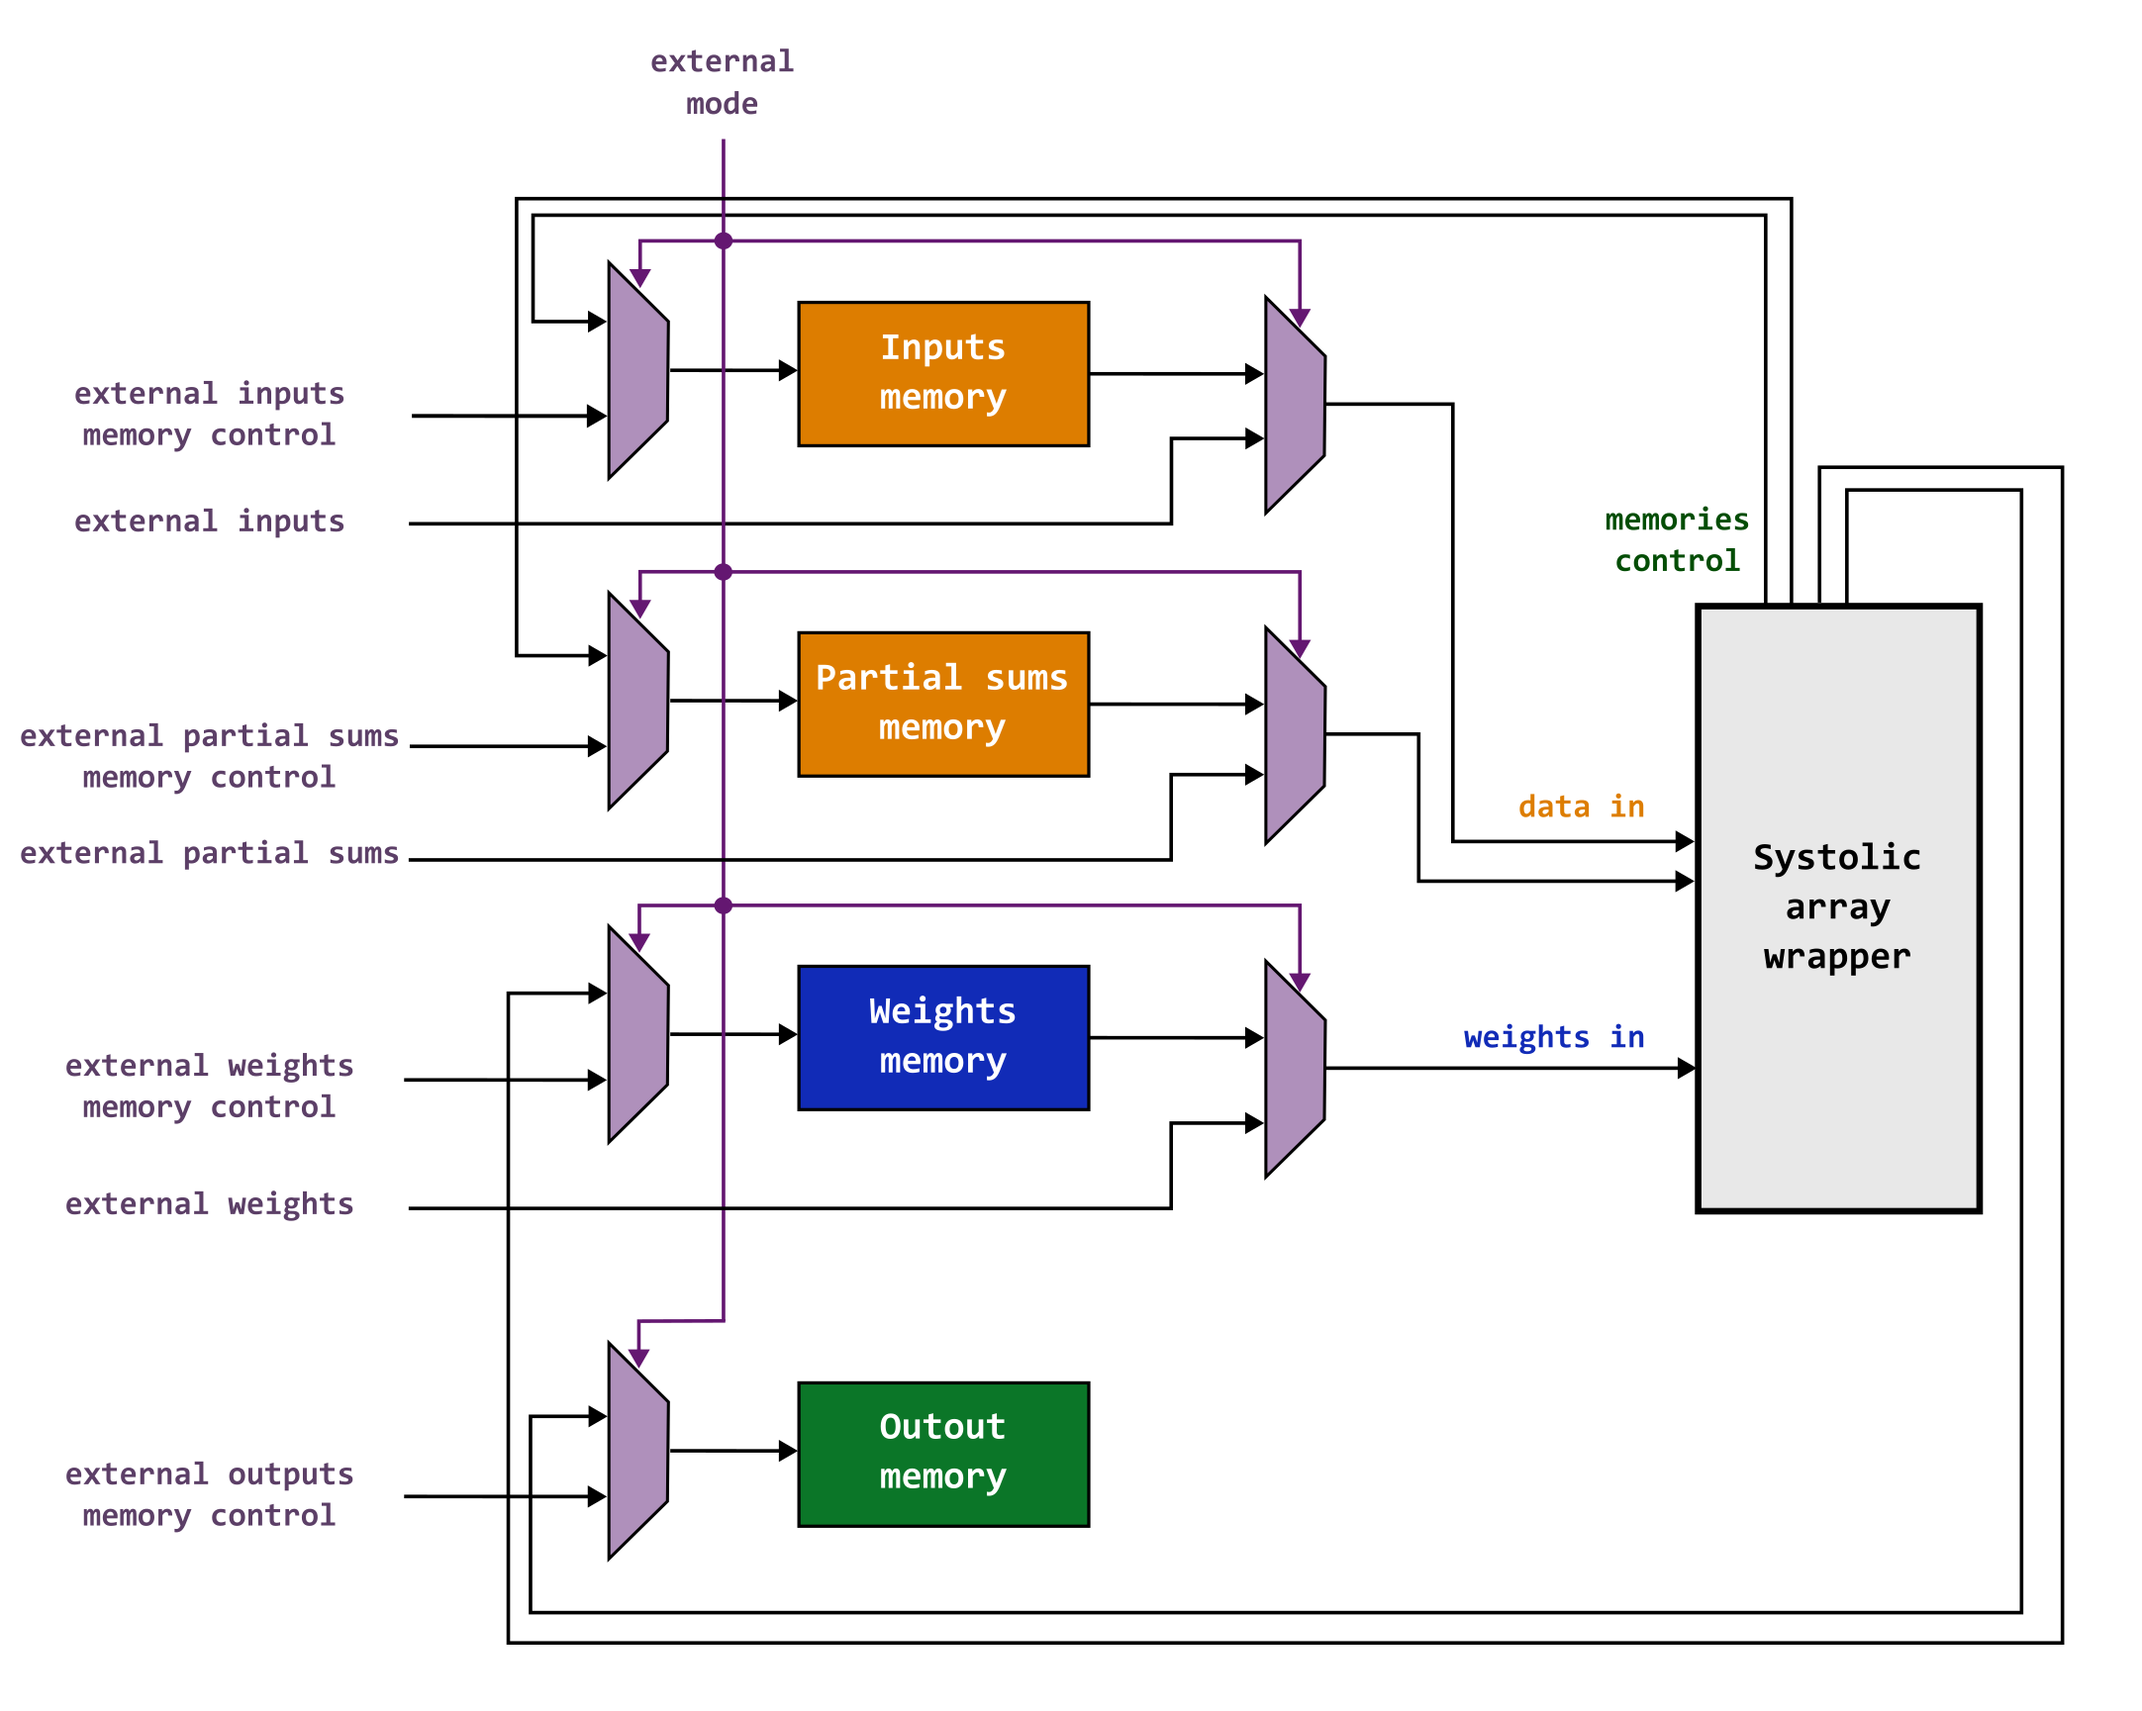
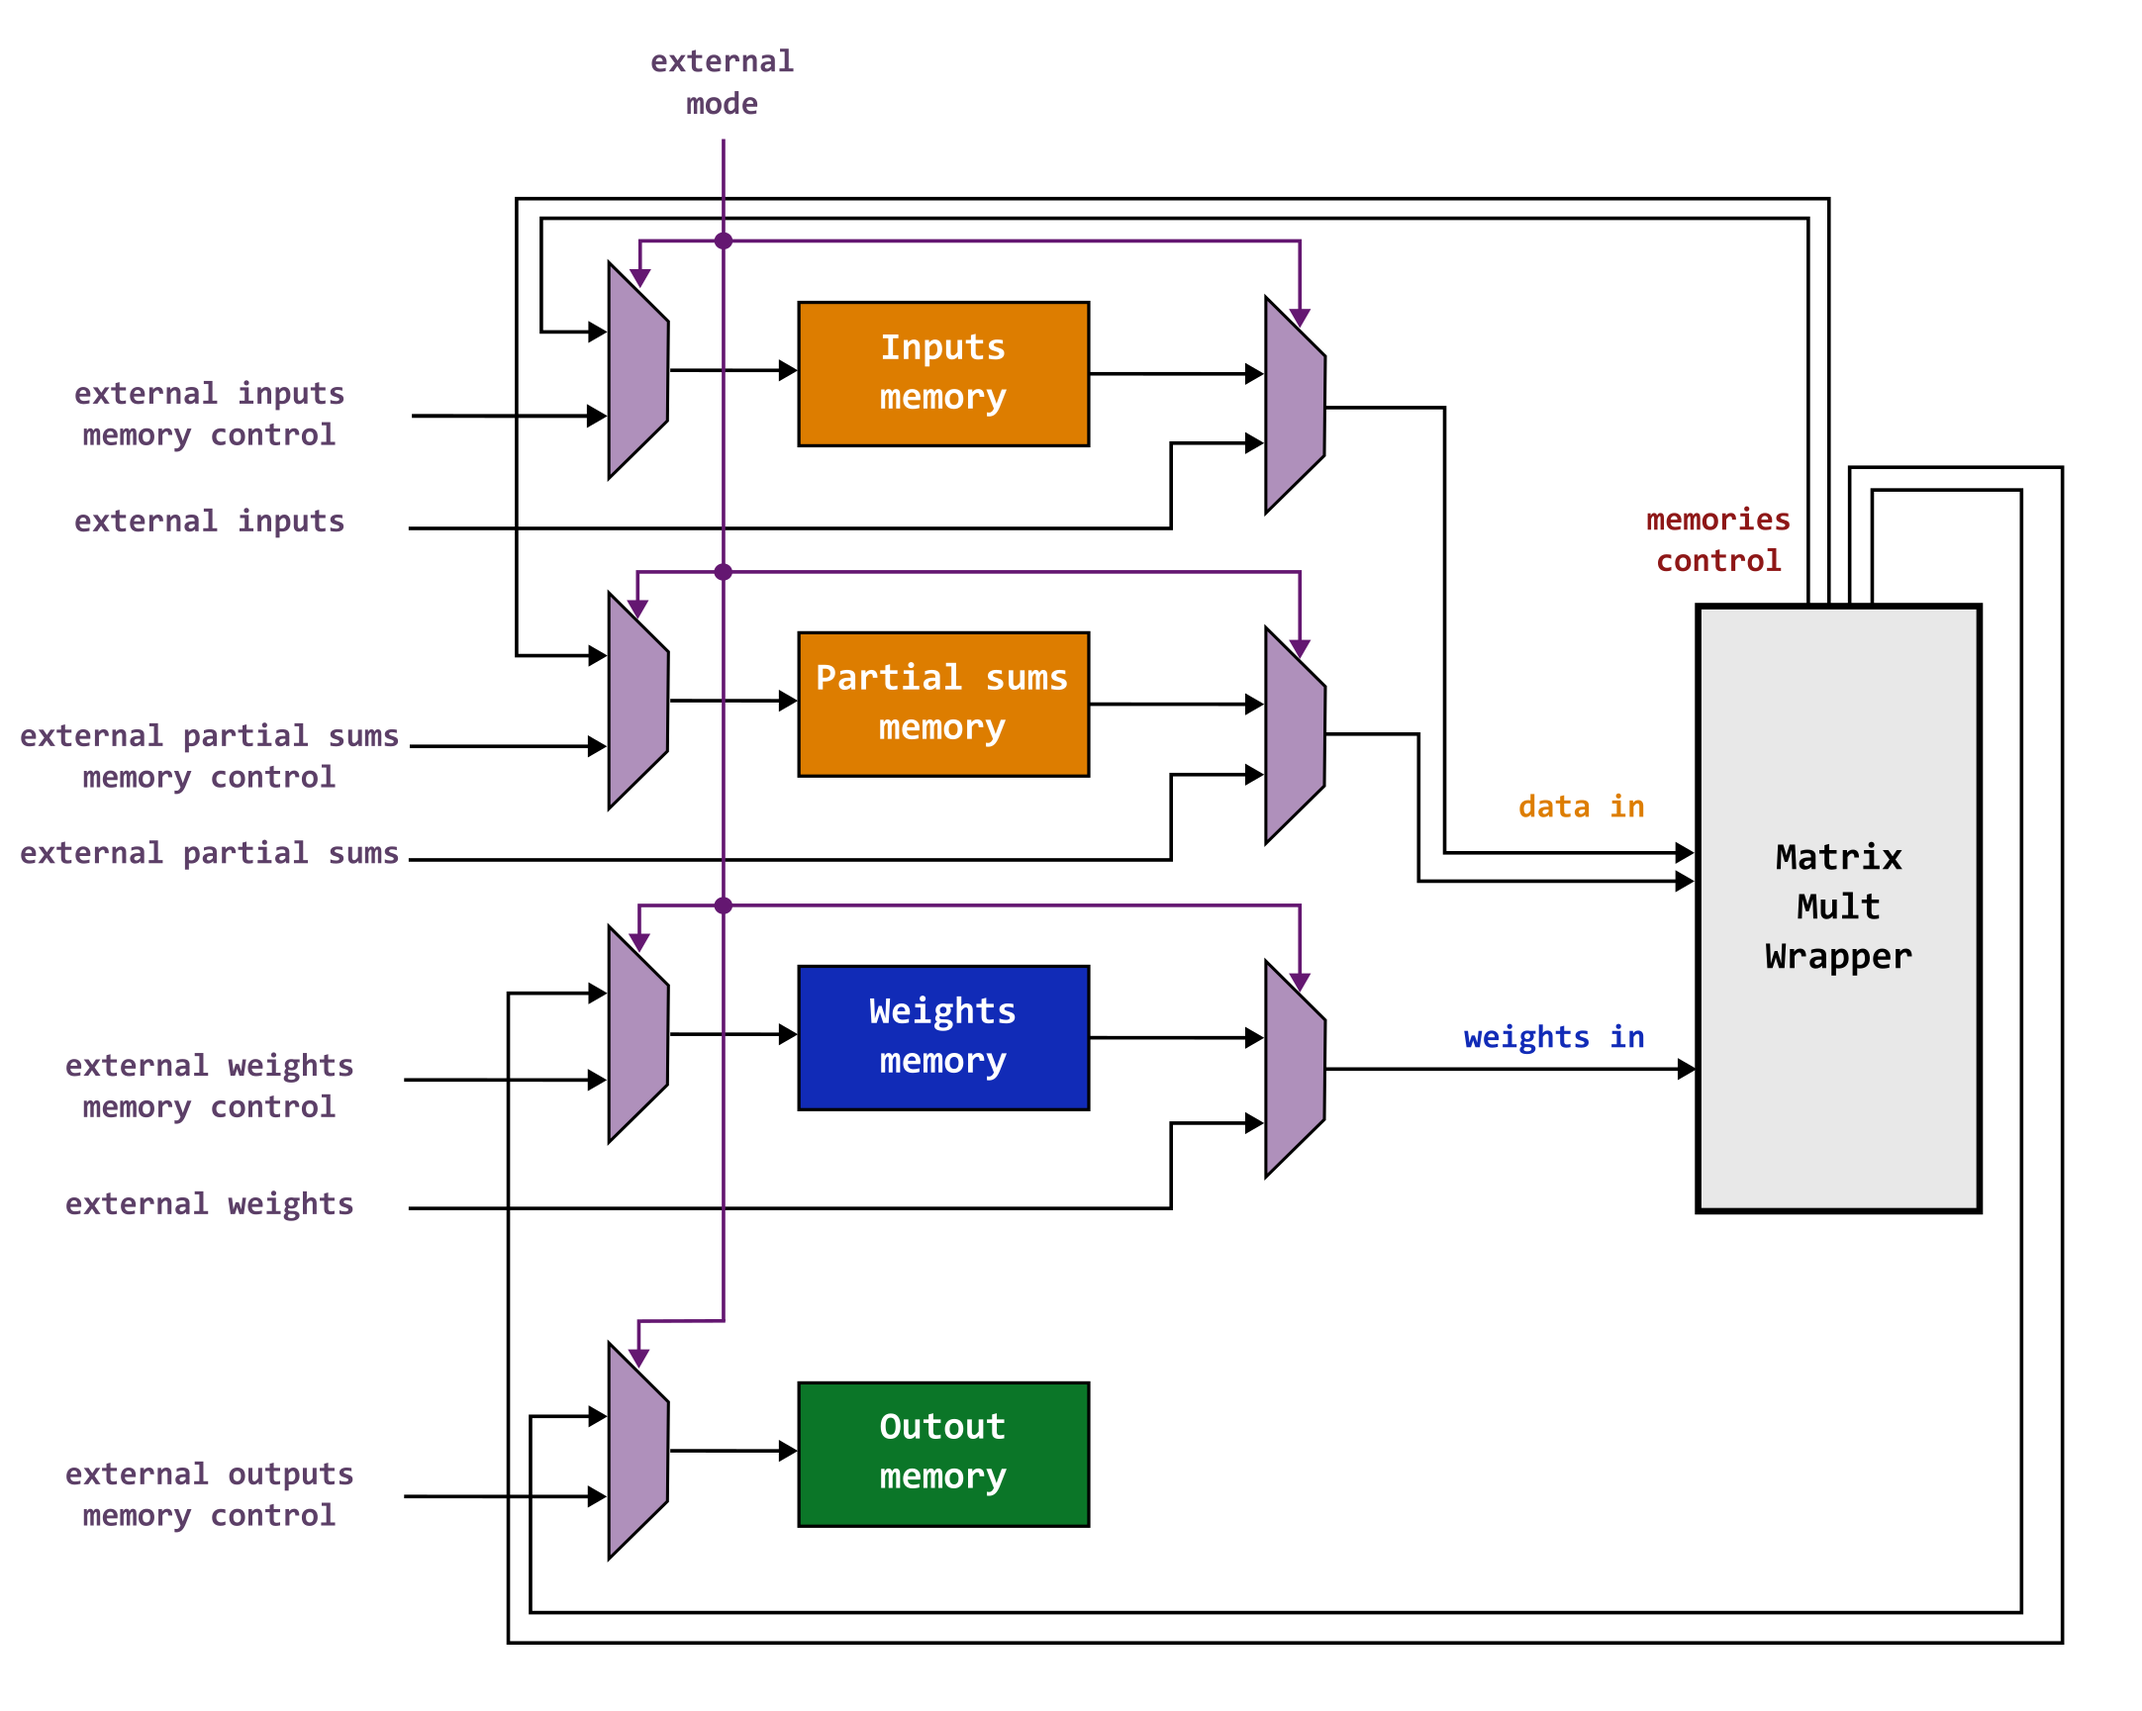
Images updated to matrix mult

diff --git a/README.md b/README.md
@@ -86,7 +86,7 @@ Explore the use of _genvar_ to build a customizable number of stages.
 ## Systolic Array Wrapper
 The Systolic wrapper includes 3 main blocks: a driver, a monitor and the Systolic Array module. In driver mode 1, the driver flops the incoming test pattern, and sends it out to the Systolic module in the next cycle. In driver mode 0, the LFSR inside the driver generates the test patterns and feed it to the Systolic module. In monitor mode 1, the monitor flops the Systolic module's output and pops it out the next cycle to external modules. In monitor mode 0, the signature analyzer inside the monitor collects the Systolic module's ouputs and compresses those until it receives the stop signal. Then, one ouput will be sent out from the monitor.
 
-The data input port is also used to set the seed of LFSR and SA when in driver mode 0 or monitor mode 0. Provide the seed when reset is high to set LFSR and SA seed. Once the reset goes high, LFSR will start to generate pattern automatically. LFSR stops and notifies SA to stop as well when the generated pattern matches the stop pattern on the stop code input port.
+The data input port is also used to set the seed of LFSR and SA when in driver mode 0 or monitor mode 0. Provide the seed when reset is low to set LFSR and SA seed. Once the reset goes high, LFSR will start to generate pattern automatically. LFSR stops and notifies SA to stop as well when the generated pattern matches the stop pattern on the stop code input port.
 
 Please start by running the simulation with the provided sequence in task.sv, alter the modes and see how driver and monitor behave when the Systolic module is bypassed. Other than the 3 main modules, there's also a reset synchronizer in the wrapper that makes sure the reset is in sync with the clock that the wrapper receives.
 
@@ -103,7 +103,11 @@ Please start by running the simulation with the provided sequence in task.sv, al
 Driver Mode and Monitor mode can be seen as internal bypasses inside these modules.
 
 <p align="center">
-<img src="./img/sys_array_wrapper.png" alt="" width="700"/>
+<img src="./img/matrix_mult_wrapper.png" alt="" width="700"/>
+</p>
+
+<p align="center">
+<img src="./img/matrix_mult.png" alt="" width="400"/>
 </p>
 
 There will be 4 memories shared with all groups. the simplified diagram is shown bellow.
